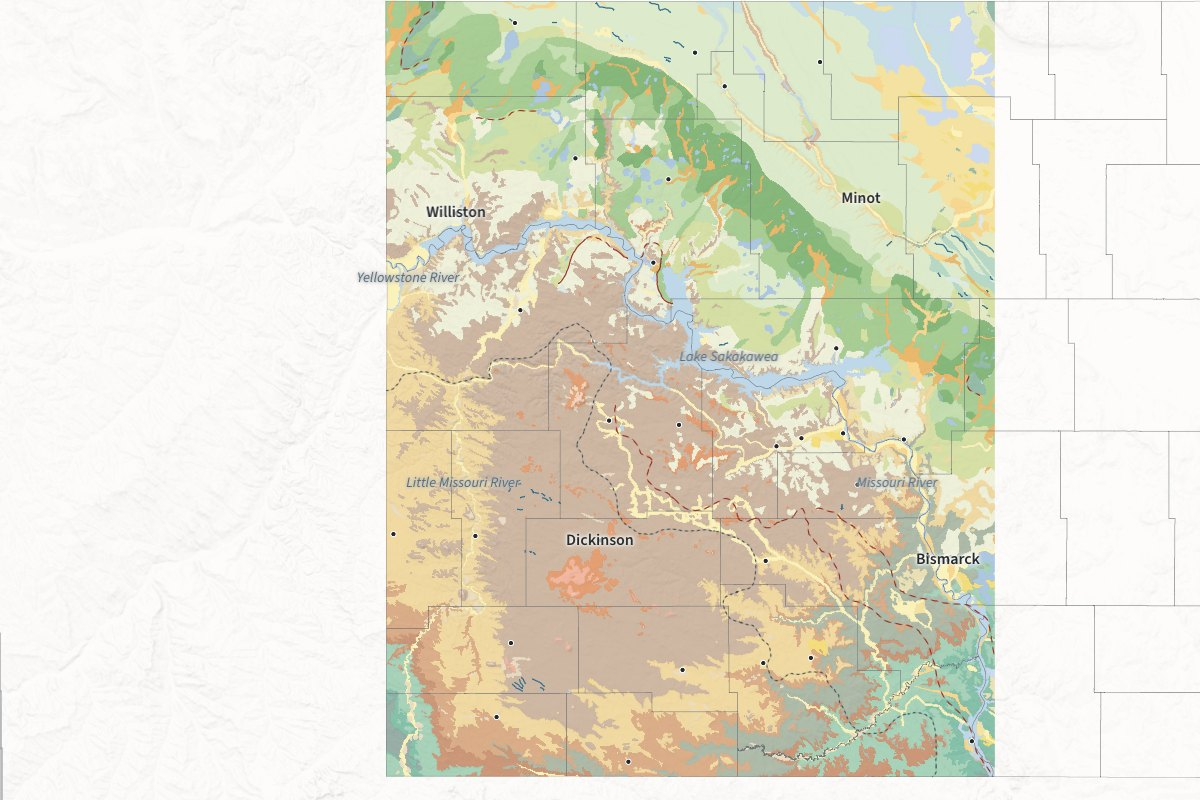
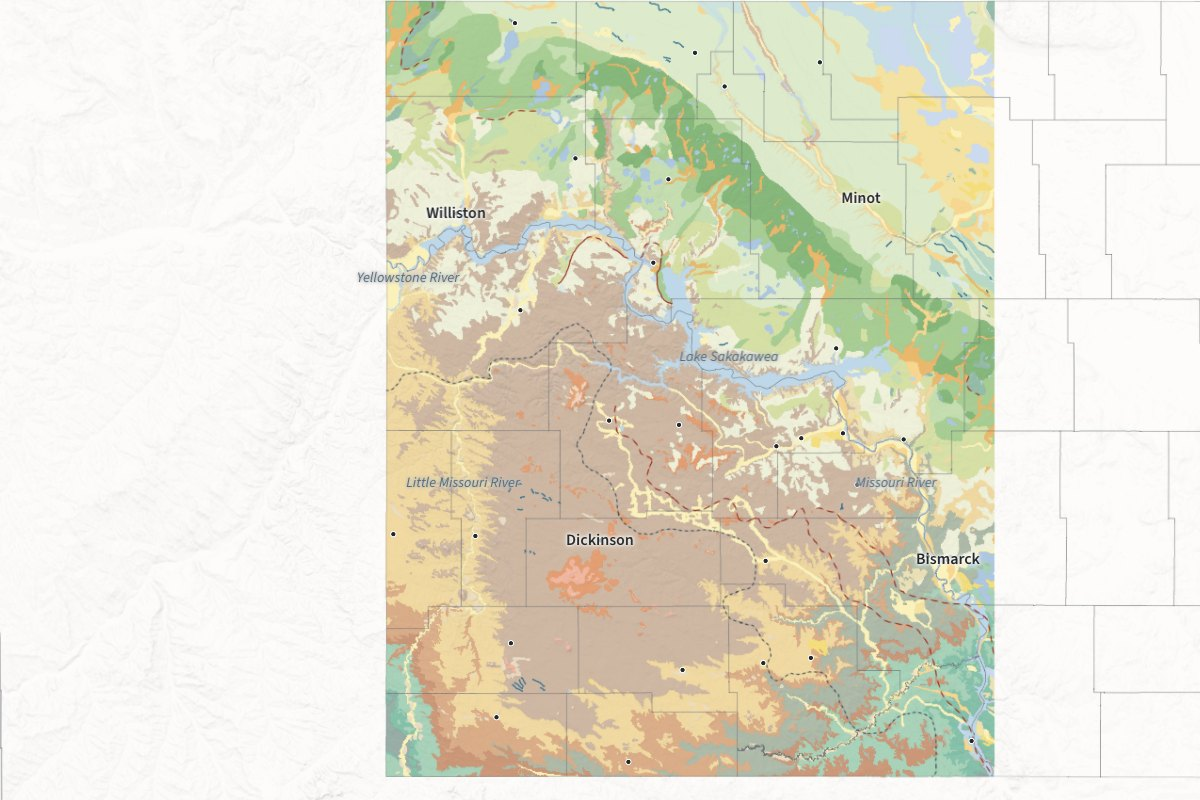
Maps: relief on from the start, every parish at a shared point in its popup, printable key, separate elevation caches, map typeface on model pages
Claude-Session: https://claude.ai/code/session_01QEC42AGYUJSSYcpj39pmnV

Changed region(s): [[0.7092, 0.5938, 0.7708, 0.625], [0.3392, 0.25, 0.4008, 0.2812], [0.74, 0.8438, 0.7708, 0.875]]

diff --git a/maps/western-nd-geology/index.html b/maps/western-nd-geology/index.html
@@ -26,7 +26,7 @@
     <link rel="stylesheet" href="/maps/map.css">
     <script src="/maps/lib/pmtiles.js" defer></script>
     <script type="module" src="/maps/map.js"></script>
-    <script type="application/json" id="map-def-western-nd-geology">{"start":"west","bounds":[-106.3,44.6,-99.3,50.2],"exaggeration":2,"sources":{"vectors":{"type":"vector","url":"vectors.pmtiles"},"terrain":{"type":"raster-dem","url":"terrain.pmtiles","encoding":"terrarium","tileSize":256,"maxzoom":10},"relief":{"type":"raster-dem","url":"terrain.pmtiles","encoding":"terrarium","tileSize":256,"maxzoom":10}},"layers":[{"id":"units","type":"fill","source":"vectors","source-layer":"units","paint":{"fill-color":["match",["get","abbr"],"Qor","#FBF1B8","Qod","#F3DC74","Qol","#EBDFB2","Qop","#DBE8E3","ls","#D9B79C","Qccg","#DBE9C9","Qccu","#C2DCAC","Qccr","#A4CB8E","Qcch","#80B373","Qcdc","#D4DEA0","Qcdg","#E5E9BF","Qcdn","#EEF0D8","Qcm","#B3D5C4","Qct","#8FB9A5","Qcer","#CDE2DC","Qces","#DFE8D2","Qcew","#C4DCE6","Qcoh","#A9C4E0","Qcof","#C8D8EE","Qcoe","#B6BFE0","Qcrf","#F6D48A","Qcrh","#E9B466","QTu","#EADBC1","QTou","#F2E19C","Tm","#F6D2B8","Tw","#F0B39B","Tg","#E3996B","Ts","#CBB39D","Tb","#F0D79C","Tp","#D9A982","Tc","#AAB7A4","Tl","#C99271","Kh","#A3D0B6","Kf","#7FBEA6","Kp","#93AAA2","water","#BCD6E8","#EEEEEE"],"fill-opacity":0.95}},{"id":"hillshade","type":"hillshade","source":"relief","paint":{"hillshade-shadow-color":"--map-shadow","hillshade-highlight-color":"--map-highlight","hillshade-accent-color":"--map-shadow","hillshade-exaggeration":0.4}},{"id":"counties","type":"line","source":"vectors","source-layer":"counties","paint":{"line-color":"--map-city-line","line-width":0.5,"line-opacity":0.55}},{"id":"ice-known","type":"line","source":"vectors","source-layer":"glacial","filter":["all",["==",["get","kind"],"Ice Margin"],["==",["get","certainty"],"Known"]],"paint":{"line-color":"#9A3324","line-width":1.2}},{"id":"ice-uncertain","type":"line","source":"vectors","source-layer":"glacial","filter":["all",["==",["get","kind"],"Ice Margin"],["!=",["get","certainty"],"Known"]],"paint":{"line-color":"#9A3324","line-width":1.2,"line-dasharray":[3,2]}},{"id":"erratics","type":"line","source":"vectors","source-layer":"glacial","filter":["==",["get","kind"],"Erratic Margin"],"layout":{"line-cap":"round"},"paint":{"line-color":"#3E4A55","line-width":1.4,"line-dasharray":[0.1,2.2]}},{"id":"eskers","type":"line","source":"vectors","source-layer":"glacial","filter":["==",["get","kind"],"Esker"],"paint":{"line-color":"#2F6E8F","line-width":1.2}},{"id":"towns","type":"circle","source":"vectors","source-layer":"towns","paint":{"circle-radius":2.6,"circle-color":"--ink","circle-stroke-color":"--paper","circle-stroke-width":1}}],"labels":{"bismarck":{"text":"Bismarck","at":[-100.7701,46.8146],"kind":"place"},"minot":{"text":"Minot","at":[-101.2776,48.2361],"kind":"place"},"williston":{"text":"Williston","at":[-103.6381,48.1806],"kind":"place"},"dickinson":{"text":"Dickinson","at":[-102.7973,46.8927],"kind":"place"},"mandan":{"text":"Mandan","at":[-100.8871,46.8295],"kind":"place"},"watford-city":{"text":"Watford City","at":[-103.2648,47.8027],"kind":"town"},"beulah":{"text":"Beulah","at":[-101.7707,47.2668],"kind":"town"},"new-town":{"text":"New Town","at":[-102.4883,47.9891],"kind":"town"},"stanley":{"text":"Stanley","at":[-102.4008,48.3135],"kind":"town"},"hazen":{"text":"Hazen","at":[-101.6248,47.2984],"kind":"town"},"tioga":{"text":"Tioga","at":[-102.9435,48.3946],"kind":"town"},"bowman":{"text":"Bowman","at":[-103.4029,46.1843],"kind":"town"},"garrison":{"text":"Garrison","at":[-101.4219,47.6532],"kind":"town"},"washburn":{"text":"Washburn","at":[-101.0278,47.294],"kind":"town"},"hettinger":{"text":"Hettinger","at":[-102.6346,46.0035],"kind":"town"},"crosby":{"text":"Crosby","at":[-103.2966,48.9162],"kind":"town"},"beach":{"text":"Beach","at":[-104.0054,46.9187],"kind":"town"},"kenmare":{"text":"Kenmare","at":[-102.072,48.6728],"kind":"town"},"killdeer":{"text":"Killdeer","at":[-102.7462,47.3688],"kind":"town"},"glen-ullin":{"text":"Glen Ullin","at":[-101.8335,46.8117],"kind":"town"},"mohall":{"text":"Mohall","at":[-101.517,48.7661],"kind":"town"},"mott":{"text":"Mott","at":[-102.3189,46.3744],"kind":"town"},"center":{"text":"Center","at":[-101.2977,47.1149],"kind":"town"},"elgin":{"text":"Elgin","at":[-101.8474,46.4015],"kind":"town"},"stanton":{"text":"Stanton","at":[-101.382,47.3185],"kind":"town"},"bowbells":{"text":"Bowbells","at":[-102.2458,48.8022],"kind":"town"},"carson":{"text":"Carson","at":[-101.5706,46.4223],"kind":"town"},"halliday":{"text":"Halliday","at":[-102.3388,47.352],"kind":"town"},"fort-yates":{"text":"Fort Yates","at":[-100.6301,46.0866],"kind":"town"},"medora":{"text":"Medora","at":[-103.5265,46.9113],"kind":"town"},"amidon":{"text":"Amidon","at":[-103.3196,46.4822],"kind":"town"},"lake-sakakawea":{"text":"Lake Sakakawea","at":[-102.05,47.62],"kind":"water"},"missouri-river":{"text":"Missouri River","at":[-101.07,47.12],"kind":"water"},"little-missouri-river":{"text":"Little Missouri River","at":[-103.6,47.12],"kind":"water"},"yellowstone-river":{"text":"Yellowstone River","at":[-103.92,47.93],"kind":"water"}},"views":{"west":{"center":[-102.3,47.45],"zoom":6.25,"show":["units","hillshade","counties","ice-known","ice-uncertain","erratics","eskers","towns","bismarck","minot","williston","dickinson","lake-sakakawea","missouri-river","little-missouri-river","yellowstone-river"],"alt":"Western North Dakota colored by surface geology: greens and blues of glacial sediment north and east of the Missouri River, tans and oranges of Paleocene bedrock in the southwest, with the ice margin and the limit of glacial erratics drawn across the state.","caption":"Western North Dakota, west of 100.5\u00b0 W."},"missouri":{"center":[-102.75,47.75],"zoom":8.1,"pitch":50,"terrain":true,"show":["units","hillshade","counties","ice-known","ice-uncertain","erratics","eskers","towns","bismarck","minot","williston","dickinson","mandan","watford-city","beulah","new-town","stanley","hazen","tioga","bowman","garrison","washburn","hettinger","crosby","beach","kenmare","killdeer","glen-ullin","mohall","mott","center","elgin","stanton","bowbells","carson","halliday","fort-yates","medora","amidon","lake-sakakawea","missouri-river","little-missouri-river","yellowstone-river"],"alt":"Tilted view of Lake Sakakawea and the badlands along the Little Missouri, the bedrock units in their colors over the relief, exaggerated twice.","caption":"Lake Sakakawea and the Little Missouri badlands, relief exaggerated twice."}},"popup":{"layer":"units","title":"{label}","lines":["{abbr}"]}}</script>
+    <script type="application/json" id="map-def-western-nd-geology">{"start":"west","bounds":[-106.3,44.6,-99.3,50.2],"exaggeration":2,"sources":{"vectors":{"type":"vector","url":"vectors.pmtiles"},"terrain":{"type":"raster-dem","url":"terrain.pmtiles","encoding":"terrarium","tileSize":256,"maxzoom":10},"relief":{"type":"raster-dem","url":"terrain.pmtiles","encoding":"terrarium","tileSize":256,"maxzoom":10}},"layers":[{"id":"units","type":"fill","source":"vectors","source-layer":"units","paint":{"fill-color":["match",["get","abbr"],"Qor","#FBF1B8","Qod","#F3DC74","Qol","#EBDFB2","Qop","#DBE8E3","ls","#D9B79C","Qccg","#DBE9C9","Qccu","#C2DCAC","Qccr","#A4CB8E","Qcch","#80B373","Qcdc","#D4DEA0","Qcdg","#E5E9BF","Qcdn","#EEF0D8","Qcm","#B3D5C4","Qct","#8FB9A5","Qcer","#CDE2DC","Qces","#DFE8D2","Qcew","#C4DCE6","Qcoh","#A9C4E0","Qcof","#C8D8EE","Qcoe","#B6BFE0","Qcrf","#F6D48A","Qcrh","#E9B466","QTu","#EADBC1","QTou","#F2E19C","Tm","#F6D2B8","Tw","#F0B39B","Tg","#E3996B","Ts","#CBB39D","Tb","#F0D79C","Tp","#D9A982","Tc","#AAB7A4","Tl","#C99271","Kh","#A3D0B6","Kf","#7FBEA6","Kp","#93AAA2","water","#BCD6E8","#EEEEEE"],"fill-opacity":0.95}},{"id":"hillshade","type":"hillshade","source":"relief","paint":{"hillshade-shadow-color":"--map-shadow","hillshade-highlight-color":"--map-highlight","hillshade-accent-color":"--map-shadow","hillshade-exaggeration":0.4}},{"id":"counties","type":"line","source":"vectors","source-layer":"counties","paint":{"line-color":"--map-city-line","line-width":0.5,"line-opacity":0.55}},{"id":"ice-known","type":"line","source":"vectors","source-layer":"glacial","filter":["all",["==",["get","kind"],"Ice Margin"],["==",["get","certainty"],"Known"]],"paint":{"line-color":"#9A3324","line-width":1.2}},{"id":"ice-uncertain","type":"line","source":"vectors","source-layer":"glacial","filter":["all",["==",["get","kind"],"Ice Margin"],["!=",["get","certainty"],"Known"]],"paint":{"line-color":"#9A3324","line-width":1.2,"line-dasharray":[3,2]}},{"id":"erratics","type":"line","source":"vectors","source-layer":"glacial","filter":["==",["get","kind"],"Erratic Margin"],"layout":{"line-cap":"round"},"paint":{"line-color":"#3E4A55","line-width":1.4,"line-dasharray":[0.1,2.2]}},{"id":"eskers","type":"line","source":"vectors","source-layer":"glacial","filter":["==",["get","kind"],"Esker"],"paint":{"line-color":"#2F6E8F","line-width":1.2}},{"id":"towns","type":"circle","source":"vectors","source-layer":"towns","paint":{"circle-radius":2.6,"circle-color":"--ink","circle-stroke-color":"--paper","circle-stroke-width":1}}],"labels":{"bismarck":{"text":"Bismarck","at":[-100.7701,46.8146],"kind":"place"},"minot":{"text":"Minot","at":[-101.2776,48.2361],"kind":"place"},"williston":{"text":"Williston","at":[-103.6381,48.1806],"kind":"place"},"dickinson":{"text":"Dickinson","at":[-102.7973,46.8927],"kind":"place"},"mandan":{"text":"Mandan","at":[-100.8871,46.8295],"kind":"place"},"watford-city":{"text":"Watford City","at":[-103.2648,47.8027],"kind":"town"},"beulah":{"text":"Beulah","at":[-101.7707,47.2668],"kind":"town"},"new-town":{"text":"New Town","at":[-102.4883,47.9891],"kind":"town"},"stanley":{"text":"Stanley","at":[-102.4008,48.3135],"kind":"town"},"hazen":{"text":"Hazen","at":[-101.6248,47.2984],"kind":"town"},"tioga":{"text":"Tioga","at":[-102.9435,48.3946],"kind":"town"},"bowman":{"text":"Bowman","at":[-103.4029,46.1843],"kind":"town"},"garrison":{"text":"Garrison","at":[-101.4219,47.6532],"kind":"town"},"washburn":{"text":"Washburn","at":[-101.0278,47.294],"kind":"town"},"hettinger":{"text":"Hettinger","at":[-102.6346,46.0035],"kind":"town"},"crosby":{"text":"Crosby","at":[-103.2966,48.9162],"kind":"town"},"beach":{"text":"Beach","at":[-104.0054,46.9187],"kind":"town"},"kenmare":{"text":"Kenmare","at":[-102.072,48.6728],"kind":"town"},"killdeer":{"text":"Killdeer","at":[-102.7462,47.3688],"kind":"town"},"glen-ullin":{"text":"Glen Ullin","at":[-101.8335,46.8117],"kind":"town"},"mohall":{"text":"Mohall","at":[-101.517,48.7661],"kind":"town"},"mott":{"text":"Mott","at":[-102.3189,46.3744],"kind":"town"},"center":{"text":"Center","at":[-101.2977,47.1149],"kind":"town"},"elgin":{"text":"Elgin","at":[-101.8474,46.4015],"kind":"town"},"stanton":{"text":"Stanton","at":[-101.382,47.3185],"kind":"town"},"bowbells":{"text":"Bowbells","at":[-102.2458,48.8022],"kind":"town"},"carson":{"text":"Carson","at":[-101.5706,46.4223],"kind":"town"},"halliday":{"text":"Halliday","at":[-102.3388,47.352],"kind":"town"},"fort-yates":{"text":"Fort Yates","at":[-100.6301,46.0866],"kind":"town"},"medora":{"text":"Medora","at":[-103.5265,46.9113],"kind":"town"},"amidon":{"text":"Amidon","at":[-103.3196,46.4822],"kind":"town"},"lake-sakakawea":{"text":"Lake Sakakawea","at":[-102.05,47.62],"kind":"water"},"missouri-river":{"text":"Missouri River","at":[-101.07,47.12],"kind":"water"},"little-missouri-river":{"text":"Little Missouri River","at":[-103.6,47.12],"kind":"water"},"yellowstone-river":{"text":"Yellowstone River","at":[-103.92,47.93],"kind":"water"}},"views":{"west":{"center":[-102.3,47.45],"zoom":6.25,"terrain":true,"show":["units","hillshade","counties","ice-known","ice-uncertain","erratics","eskers","towns","bismarck","minot","williston","dickinson","lake-sakakawea","missouri-river","little-missouri-river","yellowstone-river"],"alt":"Western North Dakota colored by surface geology: greens and blues of glacial sediment north and east of the Missouri River, tans and oranges of Paleocene bedrock in the southwest, with the ice margin and the limit of glacial erratics drawn across the state.","caption":"Western North Dakota, west of 100.5\u00b0 W."},"missouri":{"center":[-102.75,47.75],"zoom":8.1,"pitch":50,"terrain":true,"show":["units","hillshade","counties","ice-known","ice-uncertain","erratics","eskers","towns","bismarck","minot","williston","dickinson","mandan","watford-city","beulah","new-town","stanley","hazen","tioga","bowman","garrison","washburn","hettinger","crosby","beach","kenmare","killdeer","glen-ullin","mohall","mott","center","elgin","stanton","bowbells","carson","halliday","fort-yates","medora","amidon","lake-sakakawea","missouri-river","little-missouri-river","yellowstone-river"],"alt":"Tilted view of Lake Sakakawea and the badlands along the Little Missouri, the bedrock units in their colors over the relief, exaggerated twice.","caption":"Lake Sakakawea and the Little Missouri badlands, relief exaggerated twice."}},"popup":{"layer":"units","title":"{label}","lines":["{abbr}"]}}</script>
 </head>
 <body class="wide">
     <header class="site">

diff --git a/maps/missouri-yellowstone/index.html b/maps/missouri-yellowstone/index.html
@@ -26,7 +26,7 @@
     <link rel="stylesheet" href="/maps/map.css">
     <script src="/maps/lib/pmtiles.js" defer></script>
     <script type="module" src="/maps/map.js"></script>
-    <script type="application/json" id="map-def-missouri-yellowstone">{"start":"above","bounds":[-104.6,47.75,-103.15,48.62],"exaggeration":2,"sources":{"vectors":{"type":"vector","url":"vectors.pmtiles"},"terrain":{"type":"raster-dem","url":"terrain.pmtiles","encoding":"terrarium","tileSize":256,"maxzoom":12}},"layers":[{"id":"waterlines","type":"line","source":"vectors","source-layer":"waterlines","paint":{"line-color":"--map-water","line-width":0.6,"line-opacity":["*",["get","fade"],["match",["get","step"],1,0.85,2,0.62,0.42]]}},{"id":"shoreline","type":"line","source":"vectors","source-layer":"shoreline","paint":{"line-color":"--map-water","line-width":1.1,"line-opacity":["*",["get","fade"],1]}},{"id":"contours","type":"line","source":"vectors","source-layer":"contours","filter":["step",["zoom"],["==",["%",["get","elev_ft"],100],0],11,true],"paint":{"line-color":"--map-contour","line-width":["case",["==",["get","index"],1],1.05,0.5],"line-opacity":["*",["get","fade"],["case",["==",["get","index"],1],1,0.75]]}},{"id":"streams","type":"line","source":"vectors","source-layer":"streams","paint":{"line-color":"--map-water","line-width":0.8,"line-opacity":["*",["get","fade"],0.9]}},{"id":"streets","type":"line","source":"vectors","source-layer":"streets","paint":{"line-color":"--map-city-line","line-width":0.5,"line-opacity":["*",["get","fade"],0.85]}}],"labels":{"williston":{"text":"Williston","at":[-103.625,48.168],"kind":"place"},"missouri":{"text":"Missouri River","at":[-103.793,48.0186],"kind":"water"},"upper":{"text":"Missouri River","at":[-104.2406,48.0488],"kind":"water"},"yellowstone":{"text":"Yellowstone River","at":[-103.99,47.963],"kind":"water"},"sakakawea":{"text":"Lake Sakakawea","at":[-103.4445,48.0155],"kind":"water"},"muddy":{"text":"Little Muddy River","at":[-103.5977,48.1867],"kind":"water"}},"views":{"above":{"center":[-103.977,48.2087],"zoom":9.35,"show":["waterlines","shoreline","contours","streams","streets","williston","missouri","upper","yellowstone","sakakawea"],"alt":"Line drawing seen from above of the Missouri River winding east from the west edge, joined by the Yellowstone from the south, past the delta at Williston to the head of Lake Sakakawea, with contours crowding the bluffs south of the river.","caption":"The Missouri from the Yellowstone to Lake Sakakawea, contours every 100 feet."},"williston":{"center":[-103.665,48.128],"zoom":11.3,"show":["waterlines","shoreline","contours","streams","streets","williston","missouri","muddy"],"alt":"Closer view of Williston's street grid on the bluffs north of the Missouri, the river's islands and channels below, contours every 50 feet.","caption":"Williston above the river, contours every 50 feet."},"tilted":{"center":[-103.9,48.17],"zoom":9.9,"pitch":52,"bearing":-35,"terrain":true,"show":["waterlines","shoreline","contours","streams","streets","williston","upper","yellowstone","sakakawea"],"alt":"The drawing tilted and looking northwest, the river running across the foreground from the Yellowstone's mouth to Williston and the lake, relief exaggerated twice.","caption":"Looking northwest along the river, relief exaggerated twice."}}}</script>
+    <script type="application/json" id="map-def-missouri-yellowstone">{"start":"above","bounds":[-104.6,47.75,-103.15,48.62],"exaggeration":2,"sources":{"vectors":{"type":"vector","url":"vectors.pmtiles"},"terrain":{"type":"raster-dem","url":"terrain.pmtiles","encoding":"terrarium","tileSize":256,"maxzoom":12}},"layers":[{"id":"waterlines","type":"line","source":"vectors","source-layer":"waterlines","paint":{"line-color":"--map-water","line-width":0.6,"line-opacity":["*",["get","fade"],["match",["get","step"],1,0.85,2,0.62,0.42]]}},{"id":"shoreline","type":"line","source":"vectors","source-layer":"shoreline","paint":{"line-color":"--map-water","line-width":1.1,"line-opacity":["*",["get","fade"],1]}},{"id":"contours","type":"line","source":"vectors","source-layer":"contours","filter":["step",["zoom"],["==",["%",["get","elev_ft"],100],0],11,true],"paint":{"line-color":"--map-contour","line-width":["case",["==",["get","index"],1],1.05,0.5],"line-opacity":["*",["get","fade"],["case",["==",["get","index"],1],1,0.75]]}},{"id":"streams","type":"line","source":"vectors","source-layer":"streams","paint":{"line-color":"--map-water","line-width":0.8,"line-opacity":["*",["get","fade"],0.9]}},{"id":"streets","type":"line","source":"vectors","source-layer":"streets","paint":{"line-color":"--map-city-line","line-width":0.5,"line-opacity":["*",["get","fade"],0.85]}}],"labels":{"williston":{"text":"Williston","at":[-103.625,48.168],"kind":"place"},"missouri":{"text":"Missouri River","at":[-103.793,48.0186],"kind":"water"},"upper":{"text":"Missouri River","at":[-104.2406,48.0488],"kind":"water"},"yellowstone":{"text":"Yellowstone River","at":[-103.99,47.963],"kind":"water"},"sakakawea":{"text":"Lake Sakakawea","at":[-103.4445,48.0155],"kind":"water"},"muddy":{"text":"Little Muddy River","at":[-103.5977,48.1867],"kind":"water"}},"views":{"above":{"center":[-103.977,48.2087],"zoom":9.35,"terrain":true,"show":["waterlines","shoreline","contours","streams","streets","williston","missouri","upper","yellowstone","sakakawea"],"alt":"Line drawing seen from above of the Missouri River winding east from the west edge, joined by the Yellowstone from the south, past the delta at Williston to the head of Lake Sakakawea, with contours crowding the bluffs south of the river.","caption":"The Missouri from the Yellowstone to Lake Sakakawea, contours every 100 feet."},"williston":{"center":[-103.665,48.128],"zoom":11.3,"show":["waterlines","shoreline","contours","streams","streets","williston","missouri","muddy"],"alt":"Closer view of Williston's street grid on the bluffs north of the Missouri, the river's islands and channels below, contours every 50 feet.","caption":"Williston above the river, contours every 50 feet."},"tilted":{"center":[-103.9,48.17],"zoom":9.9,"pitch":52,"bearing":-35,"terrain":true,"show":["waterlines","shoreline","contours","streams","streets","williston","upper","yellowstone","sakakawea"],"alt":"The drawing tilted and looking northwest, the river running across the foreground from the Yellowstone's mouth to Williston and the lake, relief exaggerated twice.","caption":"Looking northwest along the river, relief exaggerated twice."}}}</script>
 </head>
 <body class="wide">
     <header class="site">

diff --git a/maps/map.js b/maps/map.js
@@ -86,16 +86,25 @@ export function makeMap(el, name, opts = {}) {
 function popups(map, { layer, title, lines = [] }) {
     const fill = (t, p) => t.replace(/\{(\w+)\}/g, (_, k) => p[k] ?? '').replace(/^[\s,·]+|[\s,·]+$/g, '');
     map.on('click', layer, e => {
-        const p = e.features[0].properties;
+        // Several features can share a point (two parishes at one address): each gets its own block.
         const box = document.createElement('div');
-        [[title, 'map-popup-title'], ...lines.map(l => [l, 'map-popup-line'])].forEach(([t, cls]) => {
-            const text = fill(t, p);
-            if (!text) return;
-            const row = document.createElement('div');
-            row.className = cls;
-            row.textContent = text;
-            box.append(row);
-        });
+        const seen = new Set();
+        for (const f of e.features) {
+            const key = JSON.stringify(f.properties);
+            if (seen.has(key)) continue;
+            seen.add(key);
+            const block = document.createElement('div');
+            block.className = 'map-popup-item';
+            [[title, 'map-popup-title'], ...lines.map(l => [l, 'map-popup-line'])].forEach(([t, cls]) => {
+                const text = fill(t, f.properties);
+                if (!text) return;
+                const row = document.createElement('div');
+                row.className = cls;
+                row.textContent = text;
+                block.append(row);
+            });
+            box.append(block);
+        }
         new maplibregl.Popup({ maxWidth: '18rem' }).setLngLat(e.lngLat).setDOMContent(box).addTo(map);
     });
     map.on('mouseenter', layer, () => (map.getCanvas().style.cursor = 'pointer'));

diff --git a/maps/basin-exploded/index.html b/maps/basin-exploded/index.html
@@ -21,6 +21,7 @@
     <link rel="preconnect" href="https://fonts.gstatic.com" crossorigin>
     <link href="https://fonts.googleapis.com/css2?family=Source+Serif+4:ital,opsz,wght@0,8..60,400;0,8..60,600;1,8..60,400;1,8..60,600&display=swap" rel="stylesheet">
     <link rel="stylesheet" href="/writing/style.css">
+    <link href="https://fonts.googleapis.com/css2?family=Source+Sans+3:wght@400;600&display=swap" rel="stylesheet">
     <link rel="stylesheet" href="/maps/map.css">
     <script type="module" src="/maps/model.js"></script>
 </head>

diff --git a/maps/map.css b/maps/map.css
@@ -586,6 +586,12 @@ html.still-mode .map-full.live {
     font-weight: 600;
 }
 
+.map-popup-item + .map-popup-item {
+    margin-top: 0.5rem;
+    padding-top: 0.5rem;
+    border-top: 1px solid var(--hair);
+}
+
 .map-popup-line {
     color: var(--stone);
 }
@@ -623,6 +629,8 @@ html.still-mode .map-full.live {
 }
 
 .map-legend .swatch {
+    -webkit-print-color-adjust: exact;
+    print-color-adjust: exact;
     flex: none;
     width: 1.15rem;
     height: 0.75rem;

diff --git a/_writing/build.py b/_writing/build.py
@@ -286,7 +286,8 @@ def map_page(name, m):
     url = "{}/maps/{}/".format(SITE, name)
     interactive = "views" in m
     share = still_url(name, m["start"]) if interactive else "/maps/{}/{}".format(name, m["image"])
-    head = '\n    <link rel="stylesheet" href="/maps/map.css">'
+    head = ('\n    <link href="https://fonts.googleapis.com/css2?family=Source+Sans+3:wght@400;600&display=swap" rel="stylesheet">'
+            '\n    <link rel="stylesheet" href="/maps/map.css">')
     if m.get("model"):
         head += '\n    <script type="module" src="/maps/model.js"></script>'
     out = HEAD.format(title=esc(m["title"]) + " — David Valerio", og_title=esc(m["title"]),

diff --git a/_writing/maps/missouri-yellowstone.py b/_writing/maps/missouri-yellowstone.py
@@ -32,7 +32,7 @@ maptiles.vectors({name: (gpkg, "SELECT * FROM " + name) for name in
                  layer_zooms={"contours": (8, 14), "waterlines": (8, 14), "streets": (10, 14)})
 
 # 3DEP at 100 m over 160 km around the drawing, so tilted views have land past its edge.
-coarse = os.path.join(scratch, "region-dem.tif")
+coarse = os.path.join(scratch, "region-dem-missouri.tif")
 if not os.path.exists(coarse):
     time.sleep(2)
     urllib.request.urlretrieve(

diff --git a/_writing/maps/western-nd-geology.py b/_writing/maps/western-nd-geology.py
@@ -56,7 +56,7 @@ maptiles.vectors({
 
 # 3DEP at 600 m over 600 km around the project, so the relief runs on past the project's own
 # elevation instead of ending at a cliff, and the project's 150 m faded into it.
-coarse = os.path.join(scratch, "region-dem.tif")
+coarse = os.path.join(scratch, "region-dem-geology.tif")
 if not os.path.exists(coarse):
     time.sleep(2)
     urllib.request.urlretrieve(
